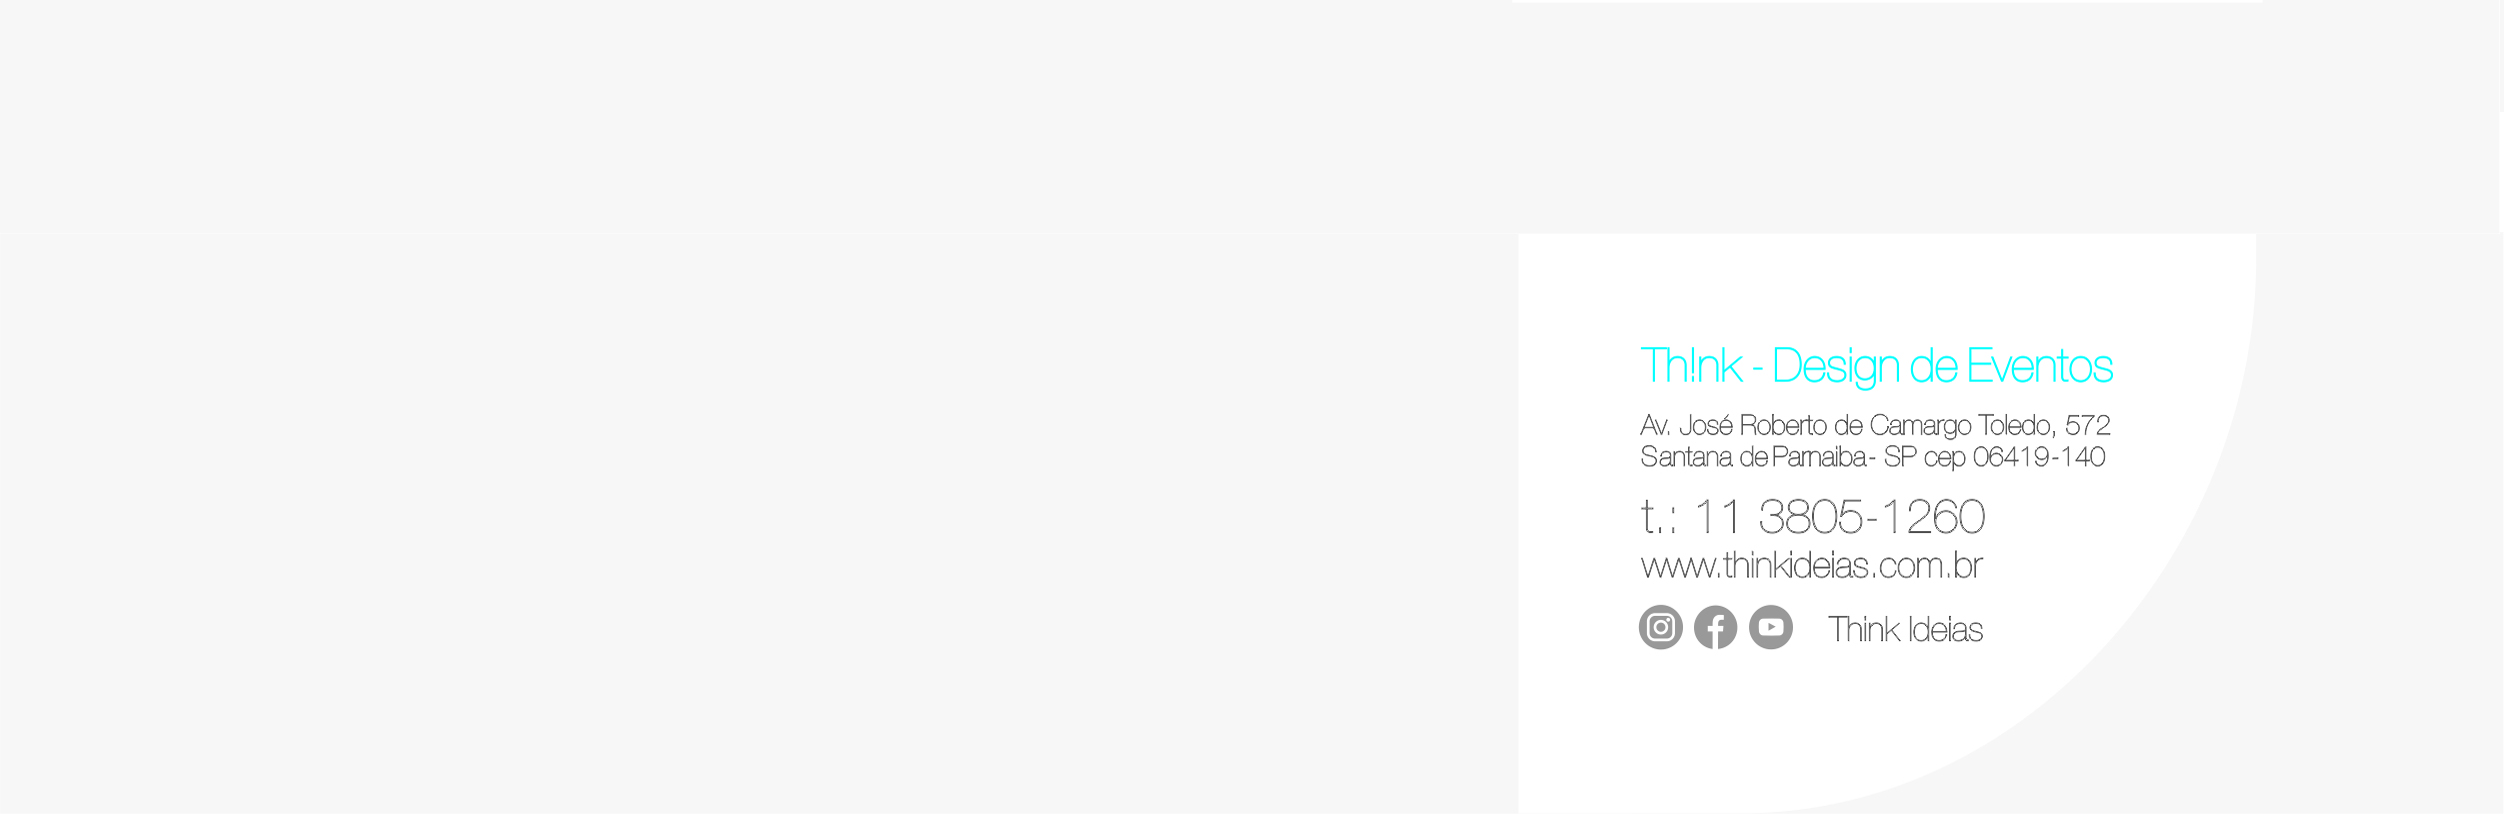
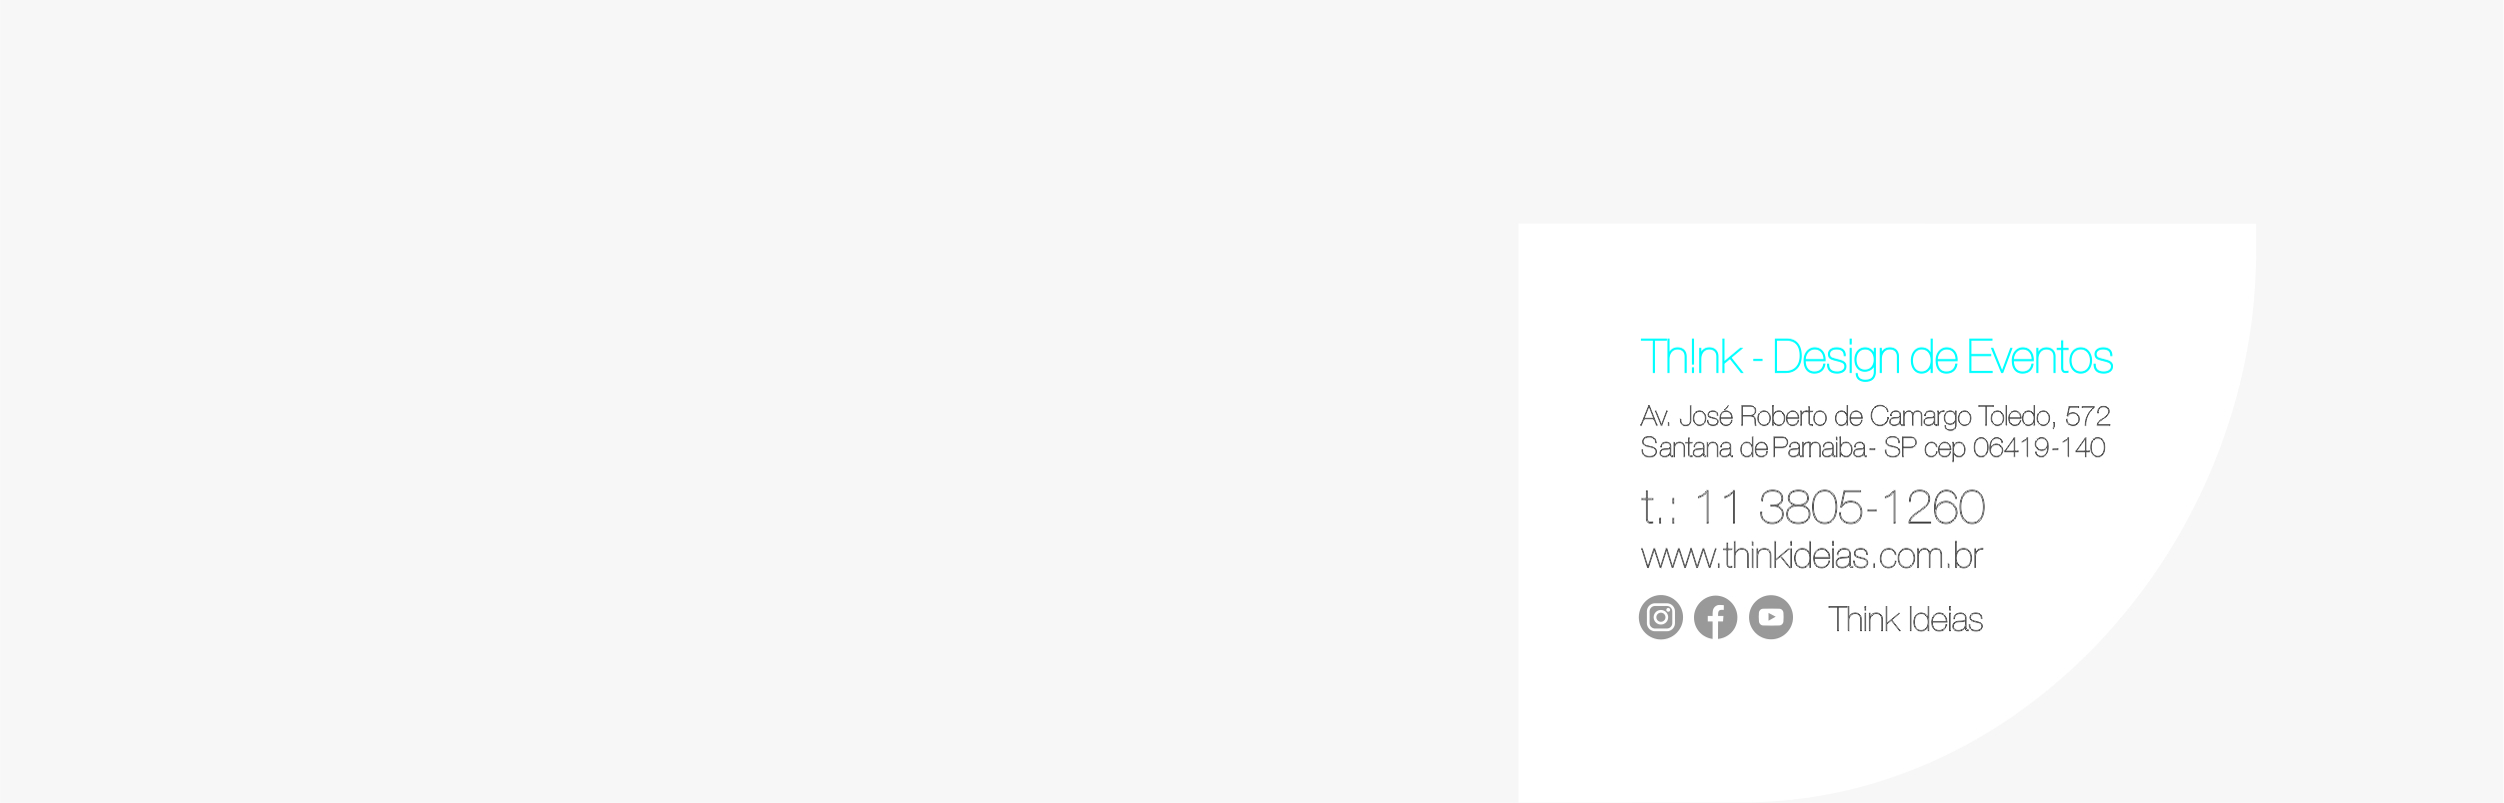
Timbrado novo, primeiro nível da tabela com opção de check novamente, e dados automáticos para Stand e Evento, mudança no texto do job.

diff --git a/src/app/proposals/proposal-form/proposal-form.component.html b/src/app/proposals/proposal-form/proposal-form.component.html
@@ -17,13 +17,13 @@
       </p>
       <br>
       <div class="p4">
-        <p>Stand: -</p>
+        <p>Stand: {{ job.not_client == null ? job.client.fantasy_name : job.not_client }}</p>
         <p>Área: -</p>
-        <p>Evento: -</p>
+        <p>Evento: {{ job.event }}</p>
         <p>Local: -</p>
         <p>Cidade: -</p>
         <p>Data: -</p>
-        <p>{{ 'Job ' + showId(job) + ' | ' + displayNameEvent(job) }}</p>
+        <p>Job: {{ showId(job) }}</p>
       </div>
       <cb-item-proposal-form [categories]="categories"></cb-item-proposal-form>
     </form>

diff --git a/src/app/proposals/proposal-form/item-proposal-form/item-proposal-form.component.html b/src/app/proposals/proposal-form/item-proposal-form/item-proposal-form.component.html
@@ -1,8 +1,8 @@
 <div class="group" *ngFor="let category of categories; let i = index">
   <table class="title-table" *ngIf="category.items.length == 0">
-    <tr class="line-title" (click)="showToggle()">
+    <tr class="line-title">
       <td class="nivel">
-        &nbsp;
+        <mat-checkbox *ngIf="sequence == ''" (click)="showToggle()"></mat-checkbox>
       </td>
       <td class="title">
         {{ sequence != '' ? sequence + '.' : '' }}{{ i + 1 }}{{ sequence == '' ? '.0' : '' }}

diff --git a/src/app/proposals/proposal-form/proposal-form.component.ts b/src/app/proposals/proposal-form/proposal-form.component.ts
@@ -31,10 +31,6 @@ export class ProposalFormComponent implements OnInit, AfterViewInit {
     })
   }
 
-  displayNameEvent(job: Job) {
-    return this.jobService.displayNameEvent(job)
-  }
-
   showId(job: Job) {
     return this.jobService.showId(job)
   }

diff --git a/src/app/app.api.ts b/src/app/app.api.ts
@@ -1,5 +1,5 @@
 import { environment } from '../environments/environment'
 
 export const API = environment.api
-export const FRONTEND_VERSION = '1.16.15'
+export const FRONTEND_VERSION = '1.16.16'
 export const BACKEND_VERSION = '1.16.8'
